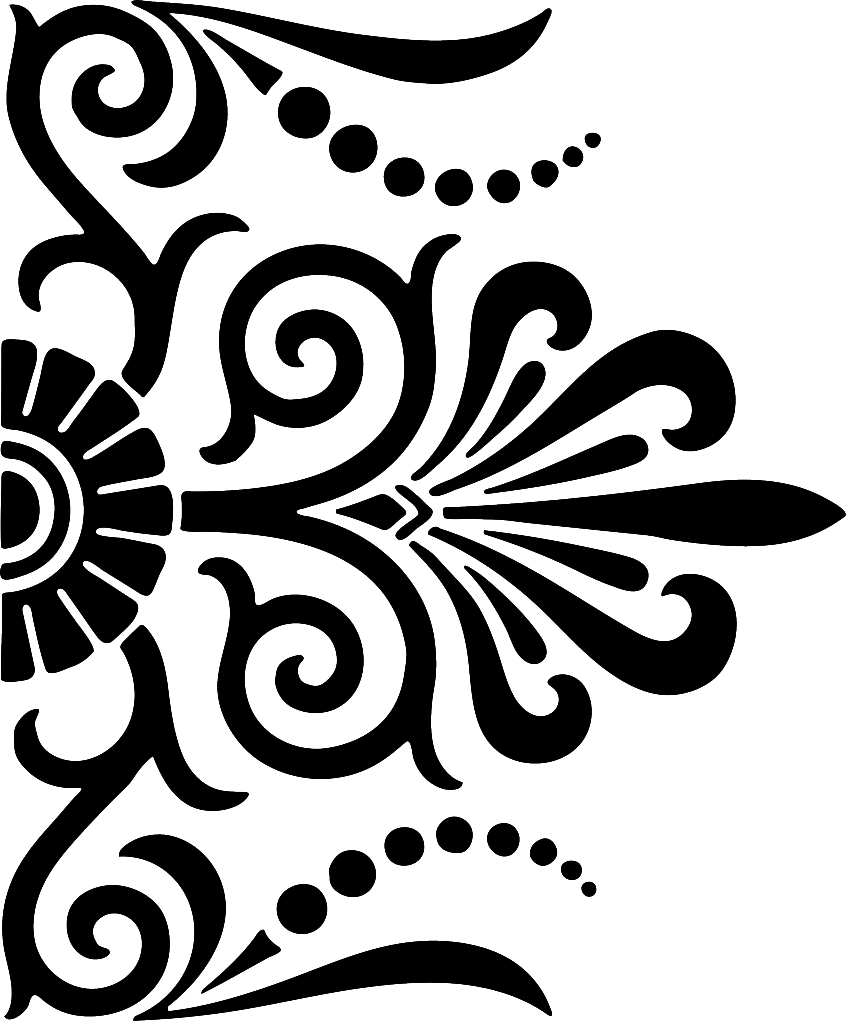
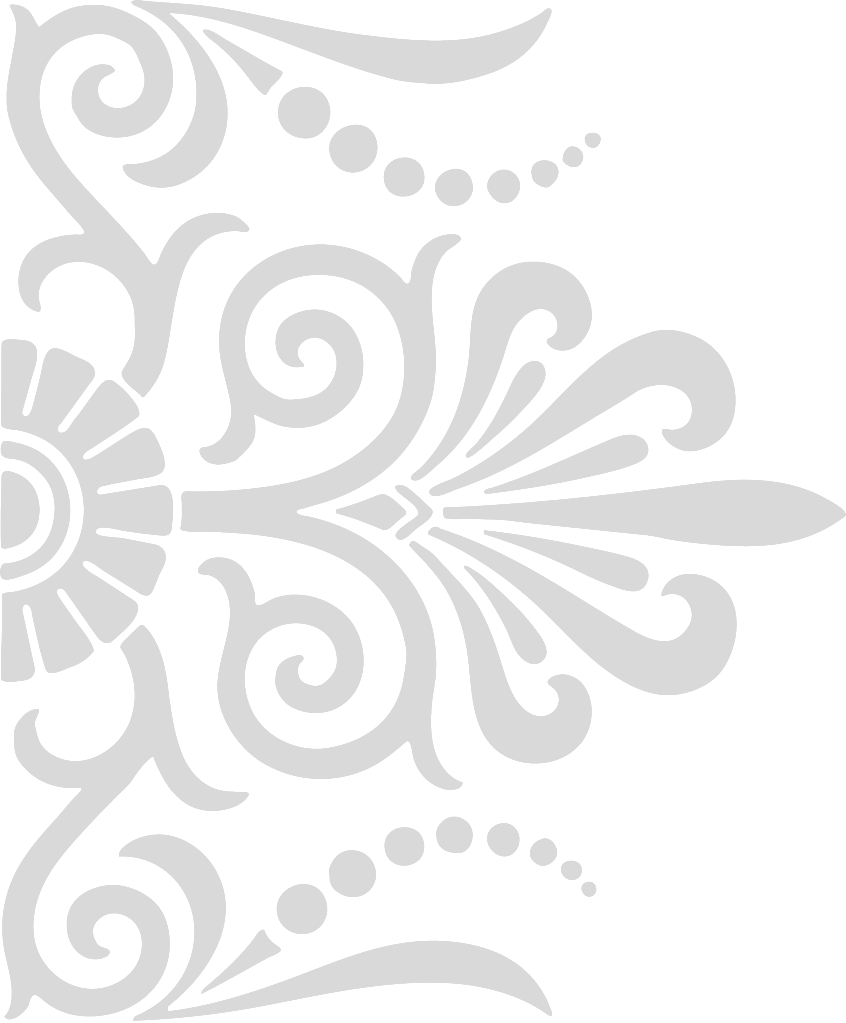
change background images to css background

diff --git a/src/components/fourth-banner.vue b/src/components/fourth-banner.vue
@@ -1,35 +1,24 @@
 <template>
   <div class="container">
     <div class="text-wrapper">
-        <p class="customers">Customers Love Us!</p>
+        <h1 class="customers">Customers Love Us!</h1>
         <img class="stars" src="../assets/main/5-star-rating.png" alt="">
-        <p class="average">Average 4.9 Star Rating</p>
+        <h3 class="average">Average 4.9 Star Rating</h3>
 
         
         <carousel class="review-wrapper">
             <slide v-for="review in reviews" :key="review.id">
                 <div class="review">
-                    <p>{{ review.text }}</p>
-                    <p class="review-name">{{ review.name }}</p>
+                    <h3>{{ review.text }}</h3>
+                    <h3 class="review-name">{{ review.name }}</h3>
                 </div>
             </slide>
             <template #addons>
                 <navigation />
             </template>
         </carousel>
-            
-
-
-
 
     </div>
-    
-
-    <div class="background">
-      <img class="bg-left" src="../assets/main/orange-om-90-trans-back.png" draggable="false" alt="bg-left">
-      <img class="bg-right" src="../assets/background/bg-design-right.png" draggable="false" alt="bg-right">
-    </div>
-
   </div>
 </template>
 
@@ -76,43 +65,28 @@ export default {
 <style scoped>
 
 .container {
+    background-image: url("../assets/background/bg-design-right.png"), url("../assets/main/orange-om-90-trans-back.png");
+    background-size: 350px auto, 500px auto;
+    background-position: right , left 50%;
+    background-repeat: no-repeat, no-repeat;
     max-width: 1500px;
     margin: 0 auto;
-    position: relative;
-    color: #2C3345;
-}
-
-.background {
-    display: flex;
-    justify-content: space-between;
-    align-items: center;
     height: 500px;
-}
-
-.bg-right {
-    opacity: 0.15;
-    height: 400px;
-    z-index: -1;
-}
-
-.bg-left {
-    height: 100%;
+    display: flex;
+    justify-content: flex-end;
+    align-items: center;
 }
 
 .text-wrapper {
-    position: absolute;
-    top: 30px;
-    right: 150px;
+    height: 400px;
+    width: 500px;
+    margin-right: 10%;
+    color: #2C3345;
     font-family: cursive;
-    text-align: center;
     display: flex;
     flex-direction: column;
     align-items: center;
     justify-content: space-around;
-}
-
-.customers {
-    font-size: 30px;
 }
 
 .stars {
@@ -120,26 +94,8 @@ export default {
     width: 400px;
 }
 
-.average {
-    font-size: 20px;
-}
-
 .review-wrapper {
-    height: 100%;
     width: 400px;
-    margin-top: 15px;
-    display: flex;
-    justify-content: space-between;
-    align-items: center;
-}
-
-.arrow {
-    opacity: 0.5;
-    cursor: pointer;
-    transition: .1s ease-in-out;
-}
-.arrow:hover {
-    transform: scale(1.1);
 }
 
 .review {
@@ -147,9 +103,6 @@ export default {
     border-radius: 20px;
     box-shadow: 0px 0px 33px -20px #000000;
     background-color: rgba(255,255,255,0.75);
-    text-align: center;
-    width: 350px;
-    font-size: 20px;
     margin: 20px;
 }
 
@@ -162,11 +115,18 @@ export default {
 
 
 <!-- button styling -->
+
 <style>
 .carousel__prev,
 .carousel__next {
 	box-sizing: content-box;
     background-color: black;
     opacity: 0.5;
+    transition: .1s ease-in-out;
+}
+
+.carousel__prev:hover,
+.carousel__next:hover {
+    opacity: .75;
 }
 </style>

diff --git a/src/components/first-banner.vue b/src/components/first-banner.vue
@@ -6,11 +6,6 @@
       most authentic Indian products" 
       </p>
 
-    <div class="background">
-      <img class="bg-left" src="../assets/background/bg-design-left.png" draggable="false" alt="bg-left">
-      <img class="bg-right" src="../assets/main/yellow-om-trans.png" draggable="false" alt="bg-right">
-    </div>
-
   </div>
 </template>
 
@@ -23,37 +18,28 @@ export default {
 <style scoped>
 
 .container {
+    background-image: url("../assets/main/yellow-om-trans.png"), url("../assets/background/bg-design-left.png");
+    background-size: 400px auto, 350px auto;
+    background-position: right 50px, left 50%;
+    background-repeat: no-repeat, no-repeat;
+    height: 500px;
     padding-top: 50px;
     max-width: 1500px;
     margin: 0 auto;
-    position: relative;
-}
-
-.background {
-    display: flex;
-    justify-content: space-between;
-    align-items: center;
-    height: 500px;
-}
-
-.bg-left {
-    opacity: 0.15;
-    height: 400px;
-}
-
-.bg-right {
-    height: 100%;
 }
 
 .quote {
-    position: absolute;
+    height: 100%;
+    display: flex;
+    justify-content: flex-start;
+    align-items: center;
     /* border: 1px solid blue; */
     font-family: cursive;
     font-size: 35px;
     color: #2C3345;
-    top: 220px;
-    left: 15%;
     text-align: right;
+    max-width: 80%;
+    margin: 0 auto;
 }
 
 </style>

diff --git a/src/components/second-banner.vue b/src/components/second-banner.vue
@@ -54,7 +54,6 @@
   justify-content: space-around;
   align-items: center;
   max-width: 1250px;
-
 }
 
 .img-container {
